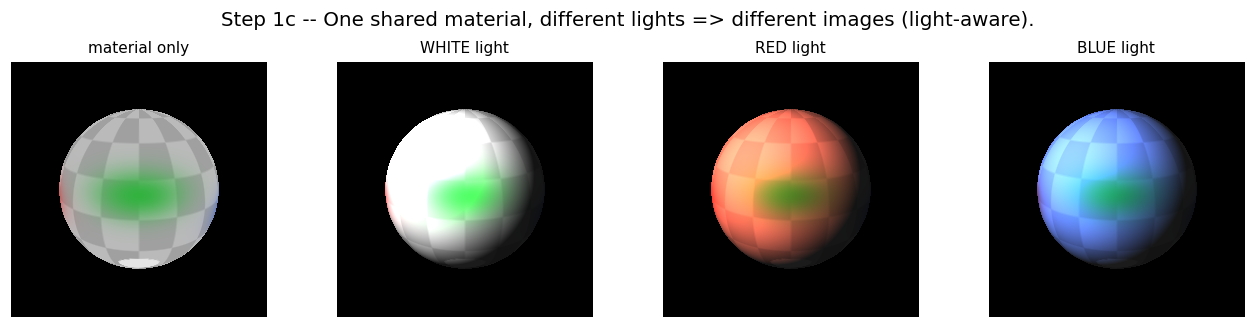
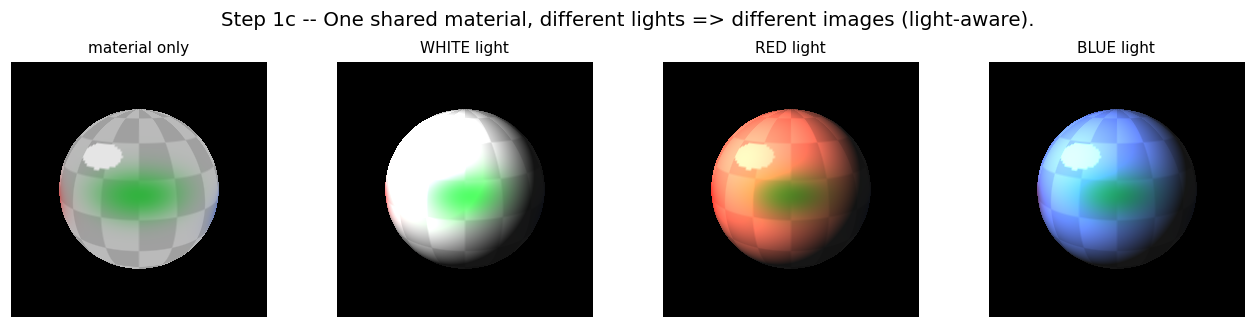
move white-card anchor to a lit texel

diff --git a/src/lightgs/assets.py b/src/lightgs/assets.py
@@ -43,8 +43,9 @@ def make_albedo_texture(Ht=128, Wt=256):
         w, c = blob(cu, cv, rad, color)
         tex = tex * (1 - w) + c
 
-    # known-WHITE anchor patch (the reference card, THEORY.md 4.2)
-    d = (uu - 0.50) ** 2 + (vv - 0.72) ** 2
+    # known-WHITE anchor patch (the reference card, THEORY.md 4.2). Placed at a well-lit
+    # texel (faces the upper-left key light) so it actually works as a light probe.
+    d = (uu - 0.42) ** 2 + (vv - 0.30) ** 2
     anchor = (d < 0.0022)
     tex = torch.where(anchor[..., None], torch.full_like(tex, 0.9), tex)
 
